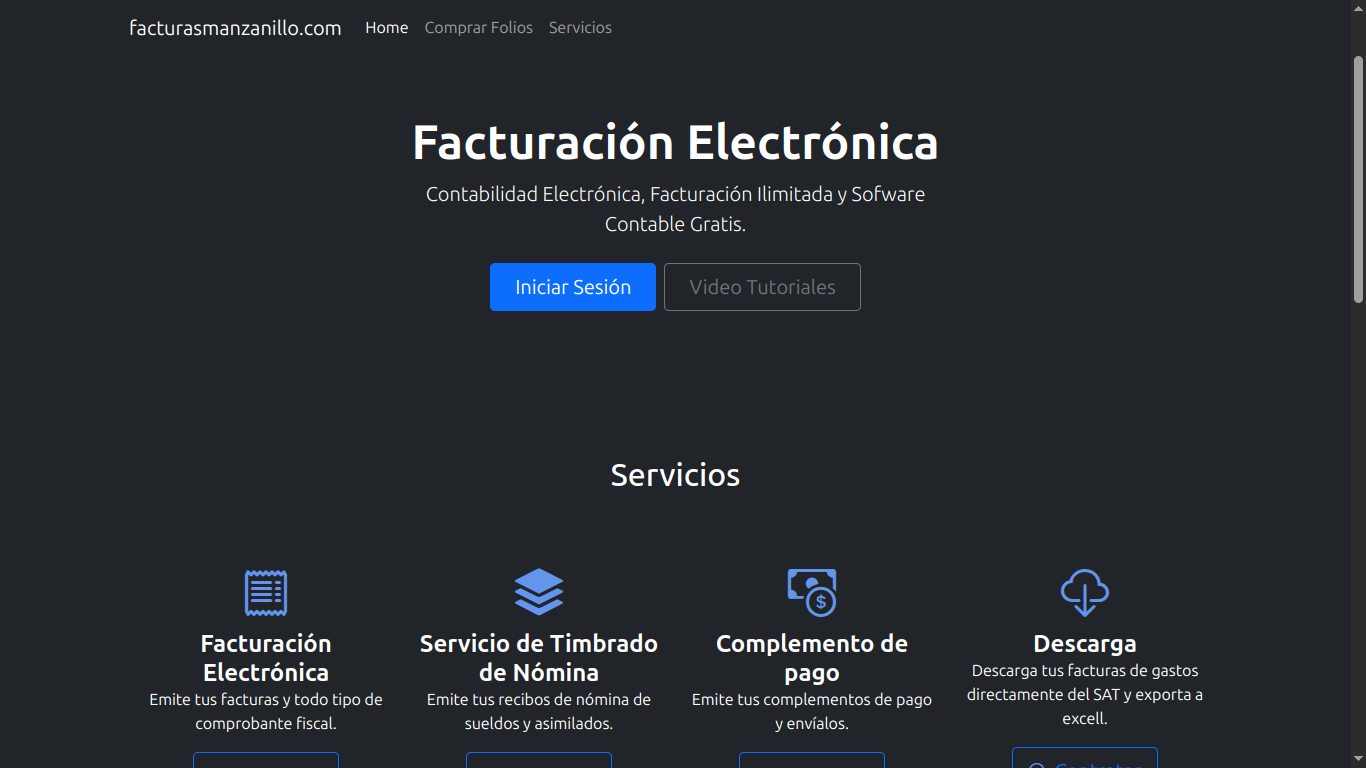
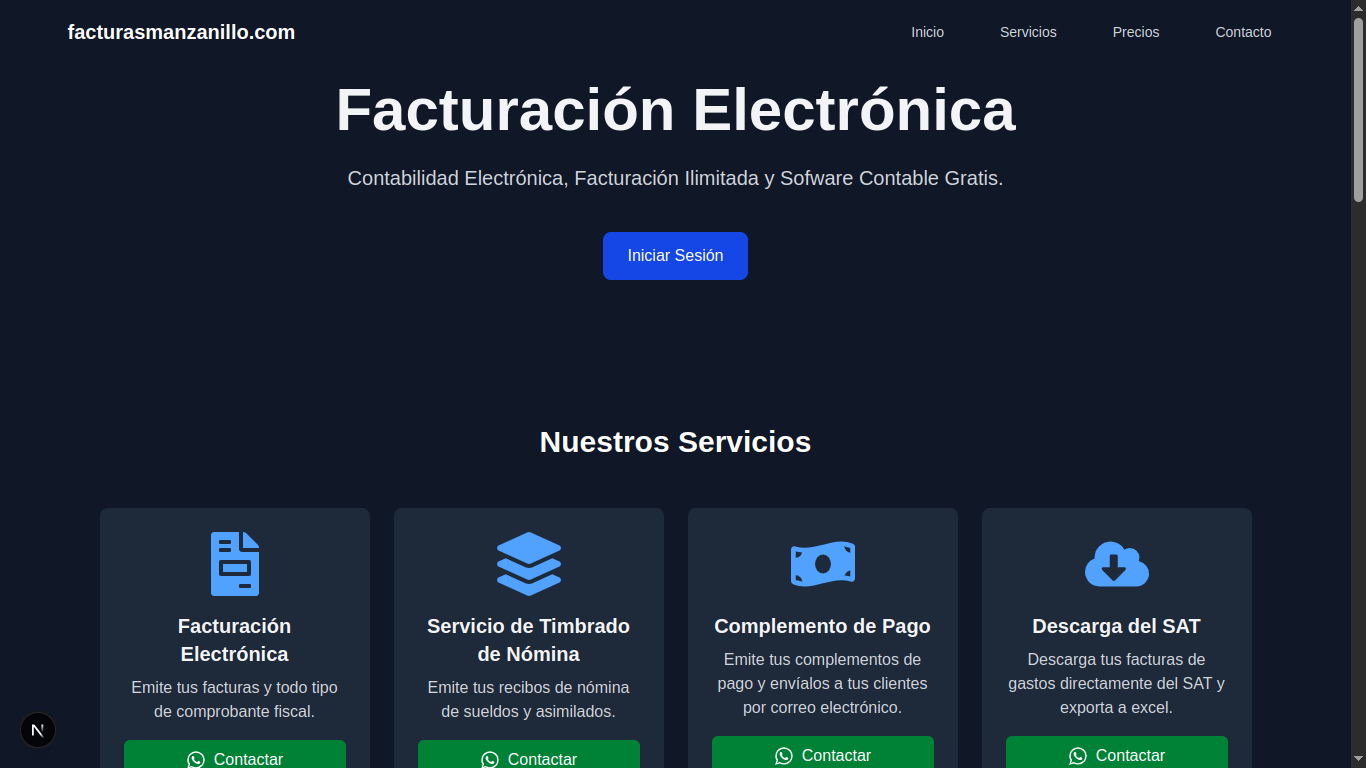
Style hero section

diff --git a/app/components/ProjectsSection.jsx b/app/components/ProjectsSection.jsx
@@ -21,6 +21,22 @@ const projects = [
     image: "/yacoLanding.png"
   },
   {
+    title: "Studio96 LS",
+    description: "Beauty salon appointment system",
+    tags: ["Ruby on Rails", "PostgreSQL", "Devise"],
+    github: "https://github.com/chucoyos/studio96ls",
+    live: "https://github.com/chucoyos/studio96ls",
+    image: "/studio96.png"
+  },
+  {
+    title: "FacturasManzanillo",
+    description: "Landing page for facturasmanzanillo.com",
+    tags: ["Next.js", "Tailwind CSS", "Framer Motion"],
+    github: "https://github.com/chucoyos/gh-first",
+    live: "https://facturasmanzanillo.com/",
+    image: "/facturasmanzanillo.png"
+  },
+  {
     title: "Shopping Cart",
     description: "E-commerce shopping cart",
     tags: ["React", "Material UI", "Vitest", "Cypress"],
@@ -60,22 +76,7 @@ const projects = [
     live: "https://odin-memory-card.netlify.app/",
     image: "/memoryCardGame.png"
   },
-  {
-    title: "Studio96 LS",
-    description: "Beauty salon appointment system",
-    tags: ["Ruby on Rails", "PostgreSQL", "Devise"],
-    github: "https://github.com/chucoyos/studio96ls",
-    live: "https://github.com/chucoyos/studio96ls",
-    image: "/studio96.png"
-  },
-  {
-    title: "FacturasManzanillo",
-    description: "Landing page for electronic invoicing",
-    tags: ["Bootstrap", "HTML", "CSS"],
-    github: "https://github.com/chucoyos/gh-first",
-    live: "https://facturasmanzanillo.com/",
-    image: "/facturasmanzanillo.png"
-  },
+  
 ];
 
 export default function ProjectsSection() {

diff --git a/app/components/FloatingCharacter.jsx b/app/components/FloatingCharacter.jsx
@@ -1,0 +1,58 @@
+'use client';
+import { motion, useAnimation } from 'framer-motion';
+import { useEffect } from 'react';
+import Image from 'next/image';
+
+export default function FloatingCharacter() {
+  const controls = useAnimation();
+
+  useEffect(() => {
+    const sequence = async () => {
+      await controls.start({
+        opacity: 1,
+        y: 0,
+        transition: { delay: 1.5, duration: 0.8 }
+      });
+      
+      controls.start({
+        y: [0, -15, 0],
+        transition: {
+          duration: 3,
+          repeat: Infinity,
+          ease: "easeInOut"
+        }
+      });
+    };
+    sequence();
+  }, [controls]);
+
+  return (
+    <motion.div
+      initial={{ opacity: 0, y: 20 }}
+      animate={controls}
+      className="fixed bottom-8 right-8 z-50 hidden lg:block"
+      style={{
+        // Transparent container
+        backgroundColor: 'transparent',
+        // No background color affects children
+        isolation: 'isolate'
+      }}
+    >
+      <div className="relative w-32 h-32">
+        <Image
+          src="/boy1.jpeg"
+          alt="Friendly character"
+          fill
+          className="object-contain"
+          style={{
+            // Ensure no background artifacts
+            mixBlendMode: 'normal',
+            // Prevent any div background bleeding
+            pointerEvents: 'none' // Allows clicks through transparent areas
+          }}
+          priority
+        />
+      </div>
+    </motion.div>
+  );
+}

diff --git a/app/layout.js b/app/layout.js
@@ -1,6 +1,6 @@
 import { Geist, Geist_Mono } from "next/font/google";
 import "./globals.css";
-
+// import FloatingCharacter from "./components/FloatingCharacter";
 const geistSans = Geist({
   variable: "--font-geist-sans",
   subsets: ["latin"],
@@ -23,6 +23,7 @@ export default function RootLayout({ children }) {
         className={`${geistSans.variable} ${geistMono.variable} antialiased bg-gray-900 text-gray-100`}
       >
         {children}
+        {/* <FloatingCharacter /> */}
       </body>
     </html>
   );

diff --git a/app/components/HeroSection.jsx b/app/components/HeroSection.jsx
@@ -8,6 +8,8 @@ export default function HeroSection() {
   return (
     <section className="min-h-screen flex flex-col justify-center px-6 md:px-12 lg:px-24">
       {/* Animated background (optional) */}
+
+      {/* Gradient background */}
       <motion.div
         initial={{ opacity: 0 }}
         animate={{ opacity: 0.05 }}
